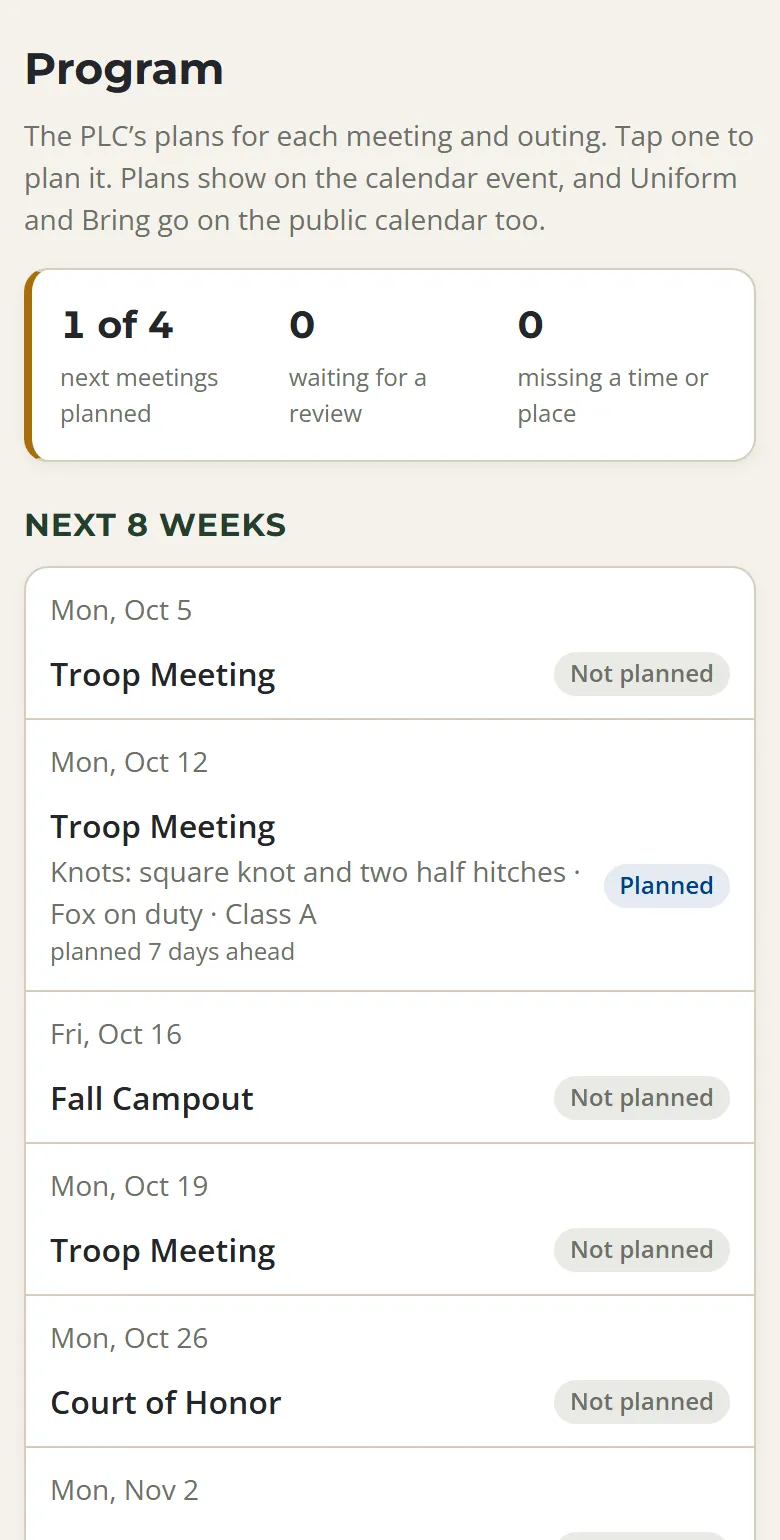
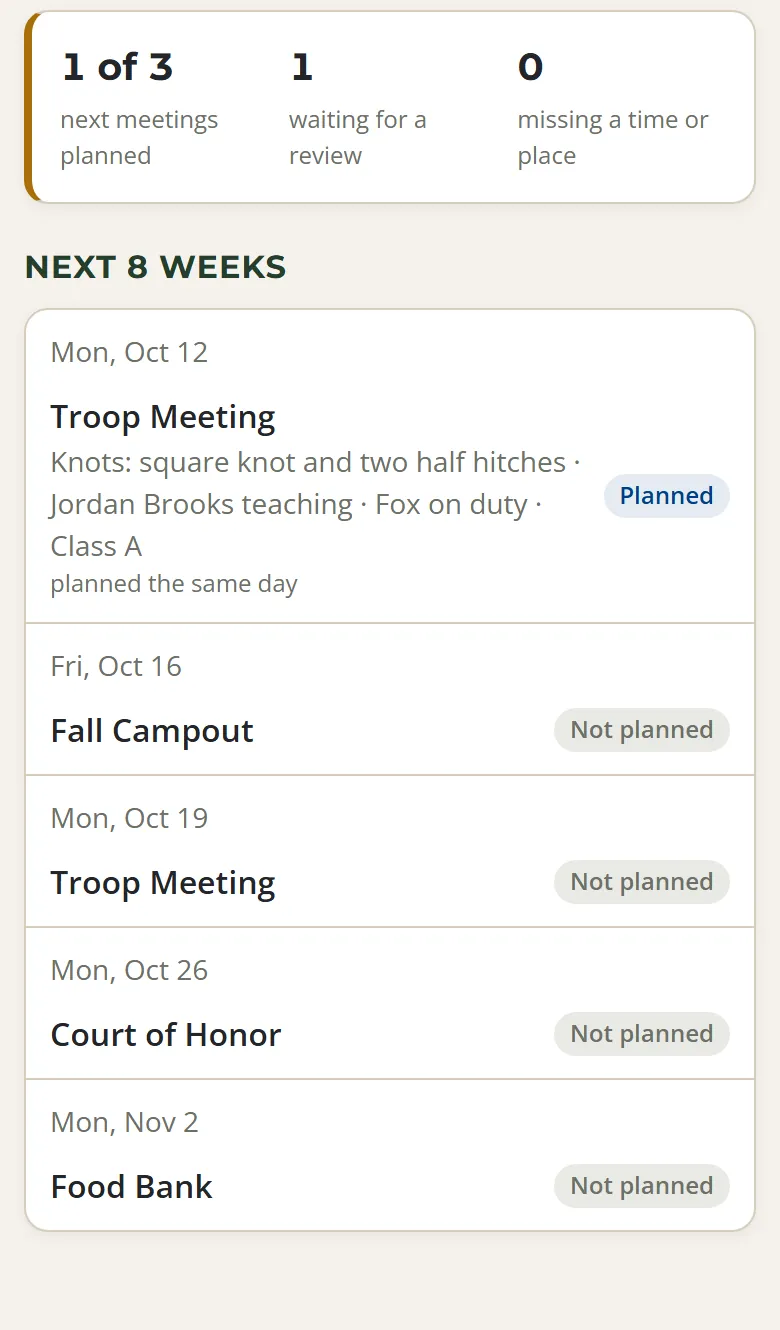
App guide: Plan the month and one-line reviews for the PLC
New screenshots from the made-up demo troop; the old plan-form and review
shots are gone with the screens they showed.

diff --git a/app.html b/app.html
@@ -460,37 +460,39 @@
           <p>The SPL, ASPL, patrol leaders, Troop Guide, Scribe, and Quartermaster can write plans. Adult leaders can read them.</p>
           <div class="app-step">
             <div>
-              <h3>The Program page</h3>
-              <p>Tap <strong>Program</strong> at the top. It shows the next 8 weeks, which meetings are planned, how far ahead, which reviews are waiting, and any events still missing a time or place.</p>
-            </div>
-            <figure class="app-shot">
-              <img src="images/app-guide/program.webp" alt="The Program page showing how many of the next meetings are planned and a list of the next 8 weeks, each marked Planned or Not planned" width="390" height="770" loading="lazy">
-              <figcaption>Program: the next 8 weeks at a glance.</figcaption>
-            </figure>
-          </div>
-          <div class="app-step">
-            <div>
-              <h3>Plan a meeting</h3>
+              <h3>Plan the month</h3>
+              <p>Tap <strong>Program</strong> at the top. It opens on <strong>Plan the month</strong>: the next five meetings, with four boxes each. It works best at the PLC's monthly meeting, with one person typing while everyone decides.</p>
               <ol>
-                <li>Open the meeting and tap <strong>Plan this meeting</strong>.</li>
-                <li>Fill in the focus, the duty patrol, the uniform, and what to bring.</li>
-                <li>The run of the meeting starts from Scouting America's troop meeting plan. Adjust the times and put a Scout's name on each part.</li>
-                <li>Tap <strong>Save plan</strong>. Families see what to wear and bring right away.</li>
+                <li><strong>What are we doing?</strong> The skill or theme for the night. This is the only box you need.</li>
+                <li><strong>Who's teaching?</strong> The Scout who leads the skill.</li>
+                <li><strong>Bring</strong> and <strong>Wear</strong> (Class A or Class B), if you know them.</li>
+                <li>Tap <strong>Save the month</strong>.</li>
               </ol>
+              <p>The rest fills itself in. Each meeting gets Scouting America's standard troop meeting plan, and the duty patrol takes turns. Families see what to wear and bring right away. To change the times or put a name on every part, tap <strong>More detail</strong>.</p>
             </div>
             <figure class="app-shot">
-              <img src="images/app-guide/plan-form.webp" alt="The plan form with boxes for the focus, duty patrol, uniform, and what to bring, and the run of the meeting with a time and a Who leads it box for each part" width="390" height="770" loading="lazy">
-              <figcaption>Planning a meeting.</figcaption>
+              <img src="images/app-guide/plan-month.webp" alt="Plan the month on the Program page: each meeting has boxes for what we're doing, who's teaching, and what to bring, Class A and Class B buttons, and the duty patrol" width="390" height="770" loading="lazy">
+              <figcaption>Plan the month: four boxes per meeting.</figcaption>
             </figure>
           </div>
           <div class="app-step">
             <div>
               <h3>After the meeting</h3>
-              <p>Tap <strong>How did it go? Add the review</strong> and write a line each for what worked, what didn't, and what to change next time. The PLC reads these when planning the next one.</p>
+              <p>Under <strong>How did they go?</strong> on the same page, write one line for each meeting you planned: how it went, and what you'd change. Tap <strong>Save reviews</strong>. The PLC reads these when planning the next month.</p>
             </div>
             <figure class="app-shot">
-              <img src="images/app-guide/review.webp" alt="A reviewed meeting plan with notes on what worked, what didn't, and what to change" width="390" height="445" loading="lazy">
-              <figcaption>A plan with its review.</figcaption>
+              <img src="images/app-guide/review-month.webp" alt="How did they go? with one box for last week's meeting and a Save reviews button" width="390" height="330" loading="lazy">
+              <figcaption>One line per meeting.</figcaption>
+            </figure>
+          </div>
+          <div class="app-step">
+            <div>
+              <h3>The rest of the Program page</h3>
+              <p>Below that are the next 8 weeks of meetings and outings, which ones are planned and how far ahead, and any events still missing a time or place. Adult leaders see this list too, so they know what the PLC needs from them.</p>
+            </div>
+            <figure class="app-shot">
+              <img src="images/app-guide/program.webp" alt="The Program page's count of planned meetings and the list of the next 8 weeks, each marked Planned or Not planned" width="390" height="665" loading="lazy">
+              <figcaption>The next 8 weeks at a glance.</figcaption>
             </figure>
           </div>
         </section>
